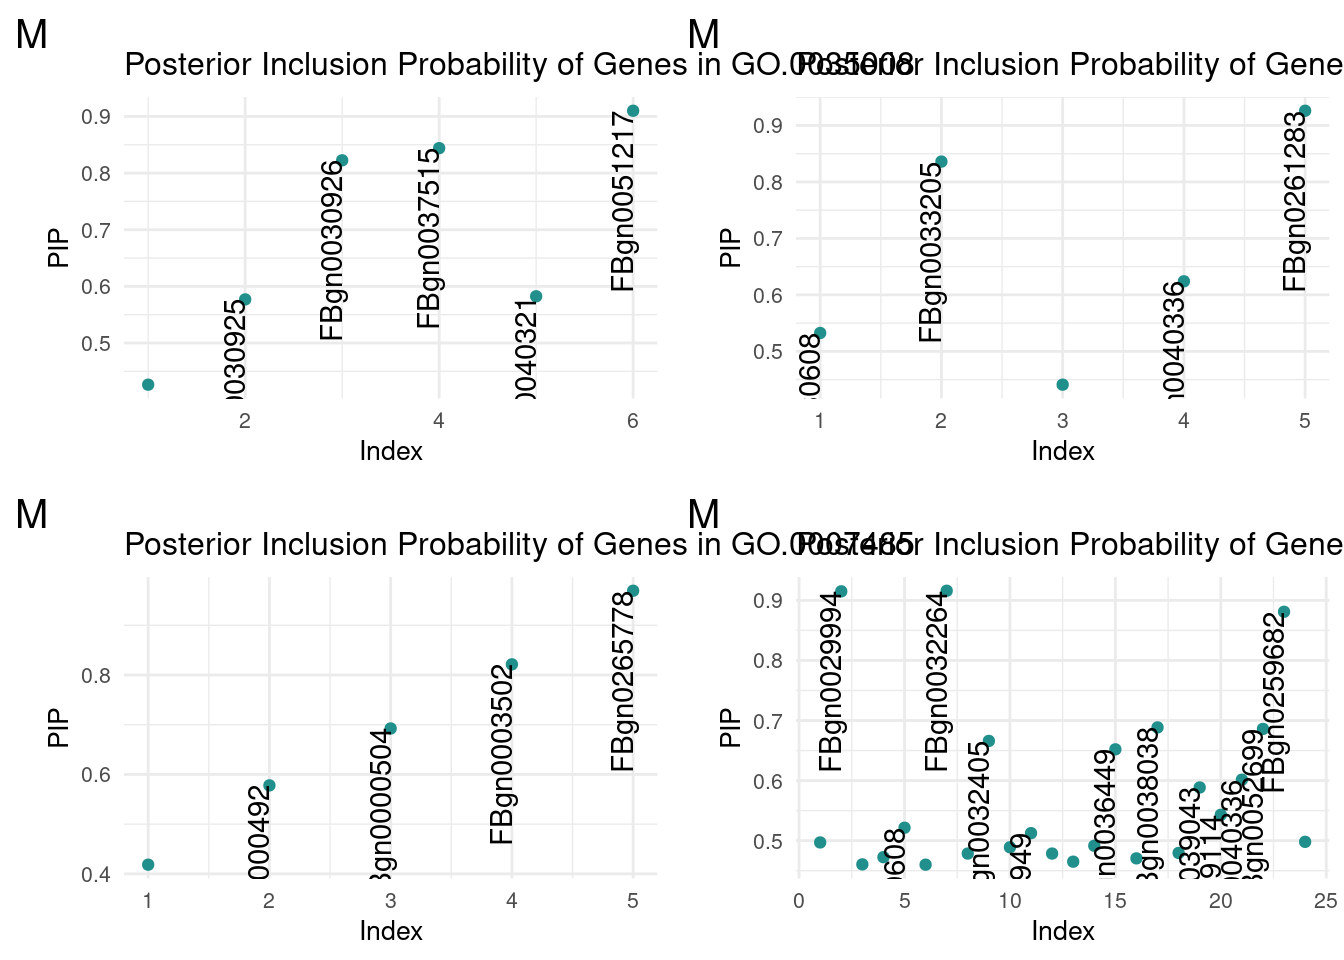
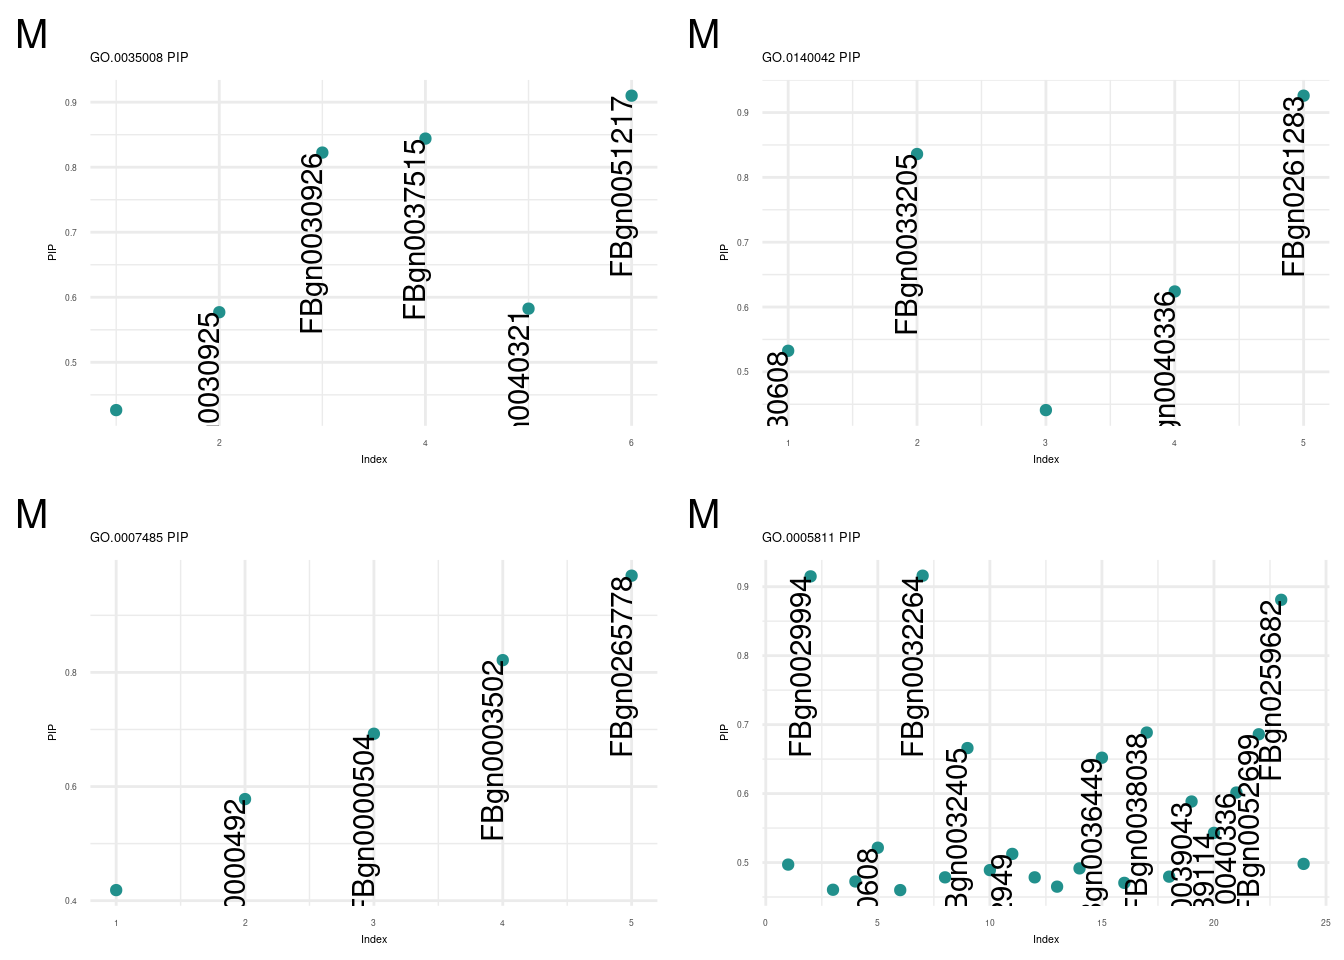
Build site.

diff --git a/docs/goReport.html b/docs/goReport.html
@@ -485,16 +485,16 @@ This reproducible <a href="https://rmarkdown.rstudio.com">R Markdown</a> analysi
 <div class="panel panel-default">
 <div class="panel-heading">
 <p class="panel-title">
-<a data-toggle="collapse" data-parent="#workflowr-checks" href="#strongRepositoryversionstrongahrefhttpsgithubcomnklimkodgrpstarvetreefeaa8dfd233c6543c820e8f26e0168061fa27d5ctargetblankfeaa8dfa"> <span class="glyphicon glyphicon-ok text-success" aria-hidden="true"></span> <strong>Repository version:</strong> <a href="https://github.com/nklimko/dgrp-starve/tree/feaa8dfd233c6543c820e8f26e0168061fa27d5c" target="_blank">feaa8df</a> </a>
+<a data-toggle="collapse" data-parent="#workflowr-checks" href="#strongRepositoryversionstrongahrefhttpsgithubcomnklimkodgrpstarvetree3dd795300ba438410026eb7384cc26a77e45c009targetblank3dd7953a"> <span class="glyphicon glyphicon-ok text-success" aria-hidden="true"></span> <strong>Repository version:</strong> <a href="https://github.com/nklimko/dgrp-starve/tree/3dd795300ba438410026eb7384cc26a77e45c009" target="_blank">3dd7953</a> </a>
 </p>
 </div>
[2 lines of base64/hex data omitted]
 <div class="panel-body">
 <p>
 Great! You are using Git for version control. Tracking code development and connecting the code version to the results is critical for reproducibility.
 </p>
 <p>
-The results in this page were generated with repository version <a href="https://github.com/nklimko/dgrp-starve/tree/feaa8dfd233c6543c820e8f26e0168061fa27d5c" target="_blank">feaa8df</a>. See the <em>Past versions</em> tab to see a history of the changes made to the R Markdown and HTML files.
+The results in this page were generated with repository version <a href="https://github.com/nklimko/dgrp-starve/tree/3dd795300ba438410026eb7384cc26a77e45c009" target="_blank">3dd7953</a>. See the <em>Past versions</em> tab to see a history of the changes made to the R Markdown and HTML files.
 </p>
 <p>
 Note that you need to be careful to ensure that all relevant files for the analysis have been committed to Git prior to generating the results (you can use <code>wflow_publish</code> or <code>wflow_git_commit</code>). workflowr only checks the R Markdown file, but you know if there are other scripts or data files that it depends on. Below is the status of the Git repository when the results were generated:
@@ -609,6 +609,40 @@ Message
 </tr>
 </thead>
 <tbody>
+<tr>
+<td>
+Rmd
+</td>
+<td>
+<a href="https://github.com/nklimko/dgrp-starve/blob/3dd795300ba438410026eb7384cc26a77e45c009/analysis/goReport.Rmd" target="_blank">3dd7953</a>
+</td>
+<td>
+nklimko
+</td>
+<td>
+2023-11-28
+</td>
+<td>
+wflow_publish(“analysis/goReport.Rmd”)
+</td>
+</tr>
+<tr>
+<td>
+html
+</td>
+<td>
+<a href="https://rawcdn.githack.com/nklimko/dgrp-starve/12d6df4a3fbe92b38ec5fcf57aaac47ce2629adc/docs/goReport.html" target="_blank">12d6df4</a>
+</td>
+<td>
+nklimko
+</td>
+<td>
+2023-11-28
+</td>
+<td>
+Build site.
+</td>
+</tr>
 <tr>
 <td>
 Rmd
@@ -749,7 +783,7 @@ dMake &lt;- function(data, sex, custom.title, custom.Xlab, custom.Ylab){
     geom_text(aes(label=ifelse(cor&gt;0.5, as.character(gene),&#39;&#39;)),hjust=1,vjust=0, angle=90)+
     theme_minimal() +
     labs(x=custom.Xlab,y=custom.Ylab, tag=sex, title=custom.title) +
-    theme(text=element_text(size=10),
+    theme(text=element_text(size=4),
           plot.tag = element_text(size=15))
   return(plothole)
 }</code></pre>
@@ -844,7 +878,7 @@ subM &lt;- subM[order(-cor),]
   outlay &lt;- fit1$ETA[[2]]$d
   
   fitDataM &lt;- data.table(index=c(1:length(inlay)), cor=inlay, gene=genes[id1])
-  plothole &lt;- dMake(fitDataM, toupper(sex), paste0(&quot;Posterior Inclusion Probability of Genes in &quot;, term), &#39;Index&#39;, &#39;PIP&#39;)
+  plothole &lt;- dMake(fitDataM, toupper(sex), paste0(term, &quot; PIP&quot;), &#39;Index&#39;, &#39;PIP&#39;)
   return(plothole)
 }
 
@@ -1013,6 +1047,17 @@ Date
 <tbody>
 <tr>
 <td>
+<a href="https://github.com/nklimko/dgrp-starve/blob/12d6df4a3fbe92b38ec5fcf57aaac47ce2629adc/docs/figure/goReport.Rmd/plot-print-m-1.png" target="_blank">12d6df4</a>
+</td>
+<td>
+nklimko
+</td>
+<td>
+2023-11-28
+</td>
+</tr>
+<tr>
+<td>
 <a href="https://github.com/nklimko/dgrp-starve/blob/8ab4763d2a2e28c4bedf9afa8722572fe55a825f/docs/figure/goReport.Rmd/plot-print-m-1.png" target="_blank">8ab4763</a>
 </td>
 <td>
@@ -1107,7 +1152,8 @@ nklimko
 <div id="post" class="section level3">
 <h3>Post</h3>
 <p>Beyond this, we took the models to determine if certain genes were enriched in the GO terms of interest. From the terms above the cutoff, we pooled the associated genes and totaled gene occurrence.</p>
-<p>Females: Out of 323 genes, 37 appeared more than once and 14 appeared twice or more. Males: Out of 448 genes, 50 appeared more than once and 14 appeared twice or more.</p>
+<p>Females: Out of 323 genes, 37 appeared more than once and 14 appeared twice or more.</p>
+<p>Males: Out of 448 genes, 50 appeared more than once and 14 appeared twice or more.</p>
 <p>After establishing unique genes, we translated the FlyBase gene codes to human-readable genes.</p>
 <pre class="r"><code>geneMatchF &lt;- readRDS(&#39;snake/goPost/finalDataF.Rds&#39;)
 geneMatchM &lt;- readRDS(&#39;snake/goPost/finalDataM.Rds&#39;)
@@ -1246,12 +1292,21 @@ kable(d1, caption = &#39;Top Female and Male Genes&#39;, &quot;simple&quot;)</co
 </tr>
 </tbody>
 </table>
-<pre class="r"><code>#
-#knitr::kable(
-#  list(d1, d2),
-#  caption = &#39;Top Female and Male Genes&#39;,
-#  booktabs = TRUE, valign = &#39;t&#39;, &quot;simple&quot;
-#)</code></pre>
+<p>The following five genes are implicated in both male and female prediction. All are related to some form of lipid processing</p>
+<p>Adipokinetic hormone + receptor:</p>
+<ul>
+<li><a href="http://flybase.org/reports/FBgn0025595">AkhR</a></li>
+<li><a href="http://flybase.org/reports/FBgn0004552">Akh</a></li>
+</ul>
+<p>Insulin Receptor pathway:</p>
+<ul>
+<li><a href="http://flybase.org/reports/FBgn0283499">InR</a></li>
+<li><a href="http://flybase.org/reports/FBgn0015279">Pi3K92E</a></li>
+</ul>
+<p>Brummer: triglyceride lipase:</p>
+<ul>
+<li><a href="http://flybase.org/reports/FBgn0036449">bmm</a></li>
+</ul>
 <br>
 <p>
 <button type="button" class="btn btn-default btn-workflowr btn-workflowr-sessioninfo" data-toggle="collapse" data-target="#workflowr-sessioninfo" style="display: block;">
